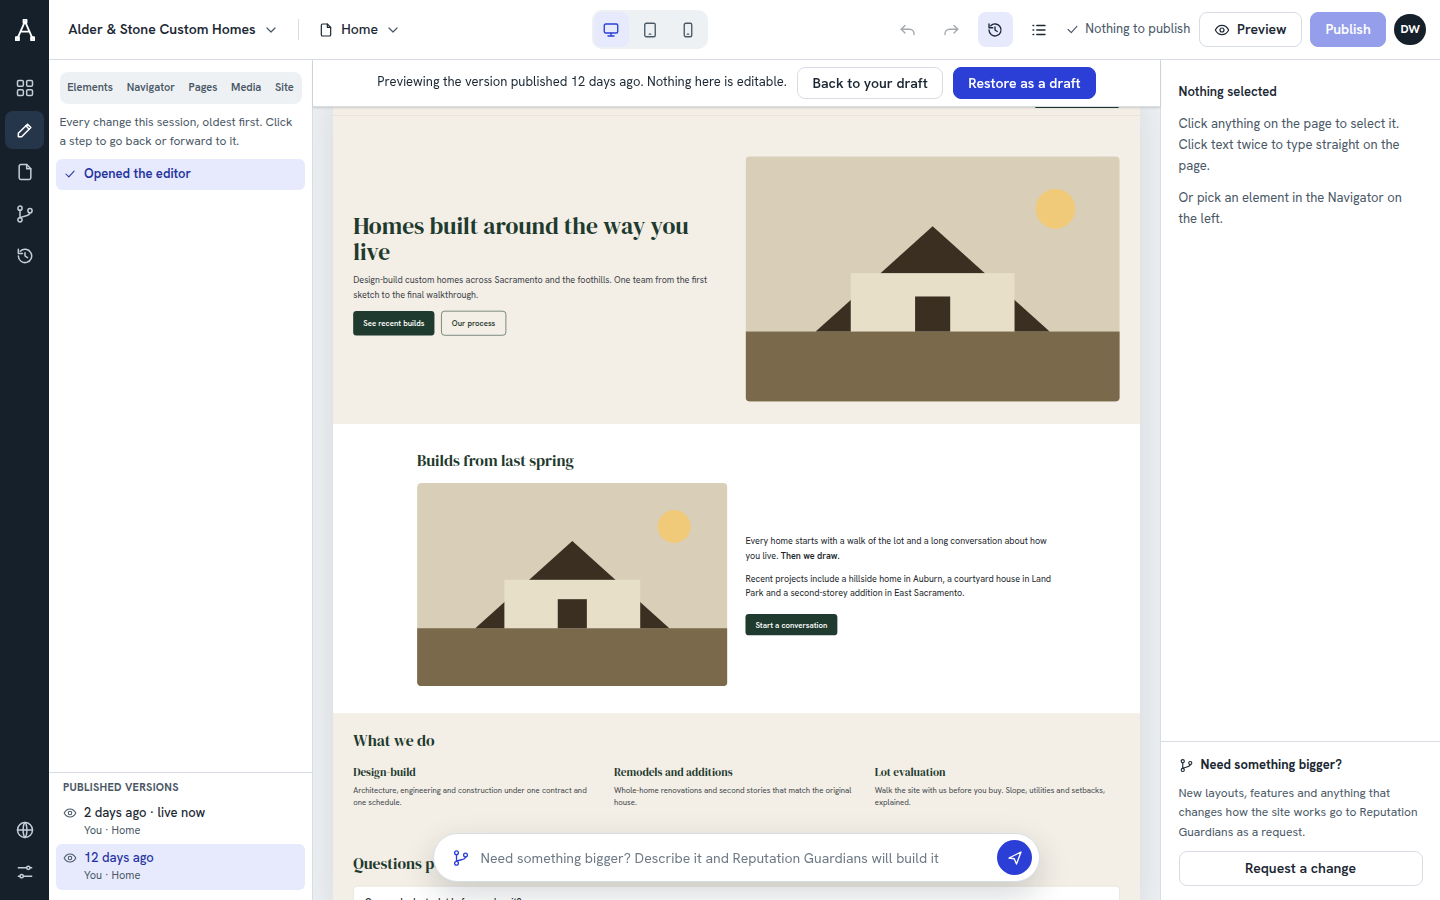
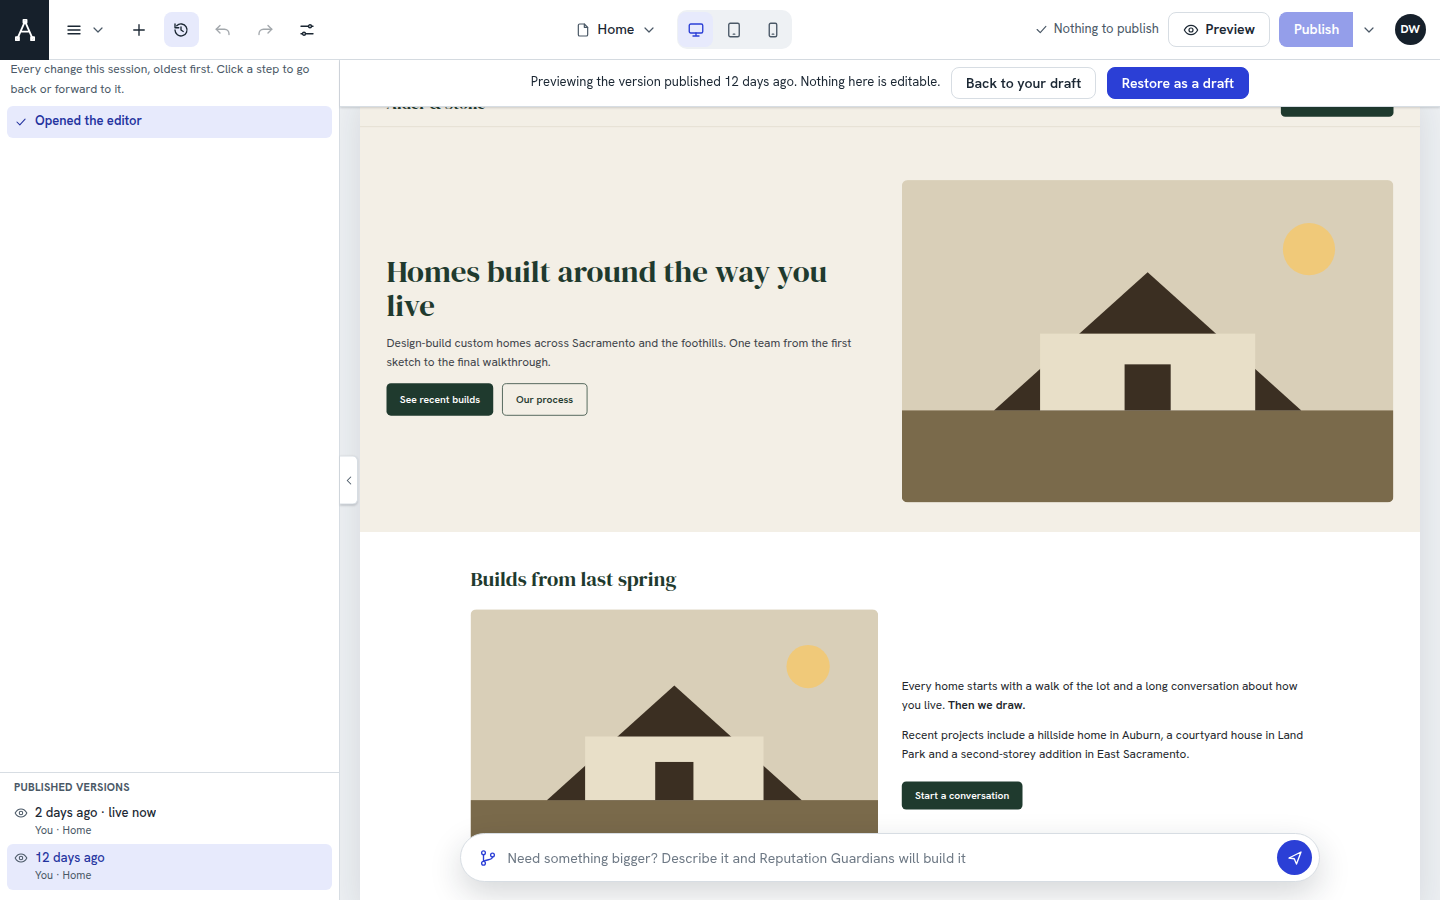
Regenerate builder screenshots for the Elementor layout
Rewrite tests/e2e/builder-screenshots.ts for the single-panel layout and capture the
required 1440x900 shots: Elements mode, Globals, Edit Heading (Content/Style/Advanced),
Edit Container (Layout), the Text Editor panel, a drag in progress with the insertion
line, the collapsed panel, page settings, plus the rich-text toolbar, image resize,
spacing handles, history and publish dialog. Removed the stale Navigator/Pages/Media/
Site-settings/Style-tab shots and updated docs/screenshots/README.md.

Claude-Session: https://claude.ai/code/session_01HfmyeMNVbvPNK2bFV6a621

diff --git a/tests/e2e/builder-screenshots.ts b/tests/e2e/builder-screenshots.ts
@@ -1,6 +1,8 @@
 /**
  * Captures the page builder's documentation screenshots into docs/screenshots at
- * 1440x900, against the demo site with a mocked Supabase (tests/e2e/mocks.ts).
+ * 1440x900, against the demo site with a mocked Supabase (tests/e2e/mocks.ts). Reflects
+ * the Elementor-style layout: one left panel (Elements / Edit / Globals / Page settings),
+ * a full-width canvas, and the collapse tab.
  *
  *   npx tsx tests/e2e/builder-screenshots.ts     (both dev servers must be running: see playwright.config.ts)
  */
@@ -42,19 +44,73 @@ const center = async (locator: Locator) => {
   if (!box) throw new Error("no box");
   return { x: box.x + box.width / 2, y: box.y + box.height / 2 };
 };
-const scrollTo = async (page: Page, selector: string) => {
-  // Scroll the site's own window only (scrollIntoView would also scroll the editor around it).
-  await frame(page).locator(selector).evaluate((node) => {
-    const rect = node.getBoundingClientRect();
-    window.scrollBy({ top: rect.top - window.innerHeight / 2 + rect.height / 2, behavior: "instant" });
-  });
-  await page.waitForTimeout(700);
+/** Scroll the site's own window so the element sits near the top (a higher section's image
+ *  target can't overlap it), then select it by clicking. */
+const pick = async (page: Page, selector: string, position?: { x: number; y: number }) => {
+  await frame(page).locator(selector).evaluate((node) => node.scrollIntoView({ block: "start" }));
+  await page.waitForTimeout(500);
+  await frame(page).locator(selector).click(position ? { position } : {});
+  await page.waitForTimeout(300);
 };
+const openElements = async (page: Page) => {
+  await page.getByTestId("topbar-add").click();
+  await page.getByTestId("elements-panel").waitFor();
+};
+
+await shoot("builder-elements", async (page) => {
+  await open(page);
+  await openElements(page);
+});
+
+await shoot("builder-globals", async (page) => {
+  await open(page);
+  await openElements(page);
+  await page.getByTestId("tab-globals").click();
+  await page.waitForTimeout(300);
+});
+
+await shoot("builder-edit-heading-content", async (page) => {
+  await open(page);
+  await pick(page, ".ae-hdbuilds");
+  await page.getByTestId("edit-title").waitFor();
+});
+
+await shoot("builder-edit-heading-style", async (page) => {
+  await open(page);
+  await pick(page, ".ae-hdbuilds");
+  await page.getByTestId("inspector-tab-style").click();
+  await page.waitForTimeout(300);
+});
+
+await shoot("builder-edit-heading-advanced", async (page) => {
+  await open(page);
+  await pick(page, ".ae-hdbuilds");
+  await page.getByTestId("inspector-tab-advanced").click();
+  await page.waitForTimeout(300);
+});
+
+await shoot("builder-edit-container-layout", async (page) => {
+  await open(page);
+  // Select the image, then walk up to the row container (whose corner is filled by children).
+  await pick(page, ".ae-imgbuild img");
+  await page.keyboard.press("ArrowLeft"); // column
+  await page.waitForTimeout(150);
+  await page.keyboard.press("ArrowLeft"); // row (a container: first tab is Layout)
+  await page.getByTestId("edit-title").waitFor();
+  await page.waitForTimeout(300);
+});
+
+await shoot("builder-text-editor-panel", async (page) => {
+  await open(page);
+  await pick(page, ".ae-txtbuild");
+  await page.getByTestId("edit-title").waitFor();
+});
 
 await shoot("builder-drag-in-progress", async (page) => {
   await open(page);
-  await page.getByTestId("tab-elements").click();
-  await scrollTo(page, ".ae-txtbuild");
+  await openElements(page);
+  await frame(page).locator(".ae-txtbuild").evaluate((node) => node.scrollIntoView({ block: "start" }));
+  await page.waitForTimeout(500);
   const from = await center(page.getByTestId("element-heading"));
   const target = await frame(page).locator(".ae-txtbuild").boundingBox();
   await page.mouse.move(from.x, from.y);
@@ -64,9 +120,23 @@ await shoot("builder-drag-in-progress", async (page) => {
   await page.getByTestId("drop-line").waitFor();
 });
 
+await shoot("builder-collapsed", async (page) => {
+  await open(page);
+  await page.getByTestId("panel-collapse").click();
+  await page.waitForTimeout(400);
+});
+
+await shoot("builder-page-settings", async (page) => {
+  await open(page);
+  await page.getByTestId("topbar-page-settings").click();
+  await page.getByTestId("page-settings-panel").waitFor();
+  await page.waitForTimeout(300);
+});
+
 await shoot("builder-rich-text-toolbar", async (page) => {
   await open(page);
-  await scrollTo(page, ".ae-txtbuild");
+  await frame(page).locator(".ae-txtbuild").evaluate((node) => node.scrollIntoView({ block: "start" }));
+  await page.waitForTimeout(500);
   const text = frame(page).locator(".ae-txtbuild");
   await text.dblclick();
   await page.getByTestId("richtext-toolbar").waitFor();
@@ -85,8 +155,7 @@ await shoot("builder-rich-text-toolbar", async (page) => {
 
 await shoot("builder-image-resize", async (page) => {
   await open(page);
-  await scrollTo(page, ".ae-imgbuild");
-  await frame(page).locator(".ae-imgbuild img").click();
+  await pick(page, ".ae-imgbuild img");
   const handle = page.getByTestId("handle-image-width");
   await handle.waitFor();
   await page.waitForTimeout(400);
@@ -99,9 +168,7 @@ await shoot("builder-image-resize", async (page) => {
 
 await shoot("builder-spacing-handles", async (page) => {
   await open(page);
-  await page.getByTestId("tab-navigator").click();
-  await page.getByTestId("nav-secbuild").click();
-  await scrollTo(page, ".ae-secbuild");
+  await pick(page, ".ae-secbuild", { x: 5, y: 5 });
   const handle = page.getByTestId("handle-padding-top");
   await handle.waitFor();
   await page.waitForTimeout(400);
@@ -110,38 +177,6 @@ await shoot("builder-spacing-handles", async (page) => {
   await page.mouse.down();
   await page.mouse.move(start.x, start.y + 24, { steps: 6 });
   await page.getByTestId("handle-value").waitFor();
-});
-
-await shoot("builder-style-tab", async (page) => {
-  await open(page);
-  await scrollTo(page, ".ae-hdbuilds");
-  await frame(page).locator(".ae-hdbuilds").click();
-  await page.getByTestId("inspector-tab-style").click();
-});
-
-await shoot("builder-navigator", async (page) => {
-  await open(page);
-  await scrollTo(page, ".ae-btnbuild");
-  await frame(page).locator(".ae-btnbuild").click({ position: { x: 4, y: 4 } });
-  await page.getByTestId("tab-navigator").click();
-});
-
-await shoot("builder-site-settings", async (page) => {
-  await open(page);
-  await page.getByTestId("tab-site").click();
-});
-
-await shoot("builder-pages", async (page) => {
-  await open(page);
-  await page.getByTestId("tab-pages").click();
-  await page.getByTestId("new-page").click();
-  await page.getByLabel("Title", { exact: true }).fill("Our services");
-  await page.getByLabel("Landing page").check();
-});
-
-await shoot("builder-media", async (page) => {
-  await open(page);
-  await page.getByTestId("tab-media").click();
 });
 
 await shoot(
@@ -164,12 +199,14 @@ await shoot(
 
 await shoot("builder-publish-dialog", async (page) => {
   await open(page);
-  await scrollTo(page, ".ae-hdbuilds");
+  await frame(page).locator(".ae-hdbuilds").evaluate((node) => node.scrollIntoView({ block: "start" }));
+  await page.waitForTimeout(500);
   await frame(page).locator(".ae-hdbuilds").dblclick();
   await page.keyboard.press("End");
   await page.keyboard.type(" this year");
   await page.keyboard.press("Enter");
-  await page.getByTestId("tab-site").click();
+  await openElements(page);
+  await page.getByTestId("tab-globals").click();
   await page.getByTestId("group-global-colours").getByTestId("color-text").first().fill("#1f5c4a");
   await page.getByRole("button", { name: "Publish", exact: true }).click();
   await page.getByTestId("publish-builder").waitFor();

diff --git a/docs/screenshots/README.md b/docs/screenshots/README.md
@@ -45,13 +45,17 @@ by page), `visual-editor-phone` (the 390px view), `visual-editor-connection-erro
 that sends `X-Frame-Options: DENY`, with the header to add).
 
 The page builder (same setup, captured by `npx tsx tests/e2e/builder-screenshots.ts` with
-both dev servers running), compared against `docs/BUILDER_SPEC.md` and the visual editor
-design: `builder-drag-in-progress` (a Heading dragged from the Elements panel, the drop
-line inside a column), `builder-rich-text-toolbar` (a text element edited in place with
-the floating toolbar), `builder-image-resize` (an image's width handle mid-drag with its
-live value), `builder-spacing-handles` (a section's top padding handle mid-drag),
-`builder-style-tab` (the Style tab for a heading), `builder-navigator` (the element tree
-with a button selected), `builder-site-settings` (global colours and fonts),
-`builder-pages` (the Pages tab and the New page dialog), `builder-media` (the media
-library with usage and alt text), `builder-history-versions` (an older publish previewed
-on the canvas), `builder-publish-dialog` (a layout and the site settings in one publish).
+both dev servers running), compared against `docs/BUILDER_SPEC.md` and Elementor's layout:
+`builder-elements` (the single left panel in Elements mode: Widgets/Globals tabs and the
+widget tiles), `builder-globals` (the Globals tab: global colours, fonts and typography),
+`builder-edit-heading-content` / `builder-edit-heading-style` / `builder-edit-heading-advanced`
+(the Edit panel's three tabs for a heading, "Edit Heading" with the grid icon back to
+Elements), `builder-edit-container-layout` (Edit Container, whose first tab is Layout),
+`builder-text-editor-panel` (a text element's Content tab), `builder-drag-in-progress`
+(a Heading dragged from the Elements panel, the insertion line inside a column),
+`builder-collapsed` (the panel collapsed so the canvas fills the window),
+`builder-page-settings` (page settings in the left panel), `builder-rich-text-toolbar`
+(a text element edited in place with the floating toolbar), `builder-image-resize` (an
+image's width handle mid-drag with its live value), `builder-spacing-handles` (a section's
+top padding handle mid-drag), `builder-history-versions` (an older publish previewed on the
+canvas), `builder-publish-dialog` (a layout and the site settings in one publish).
